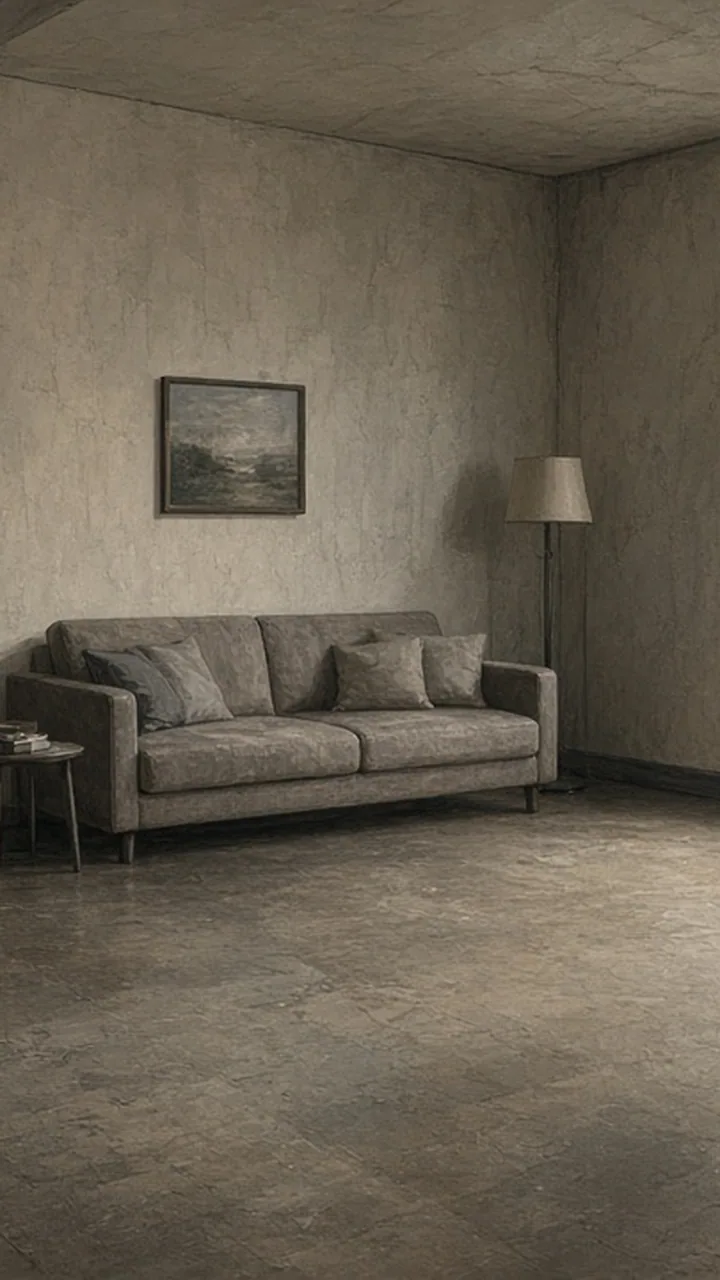
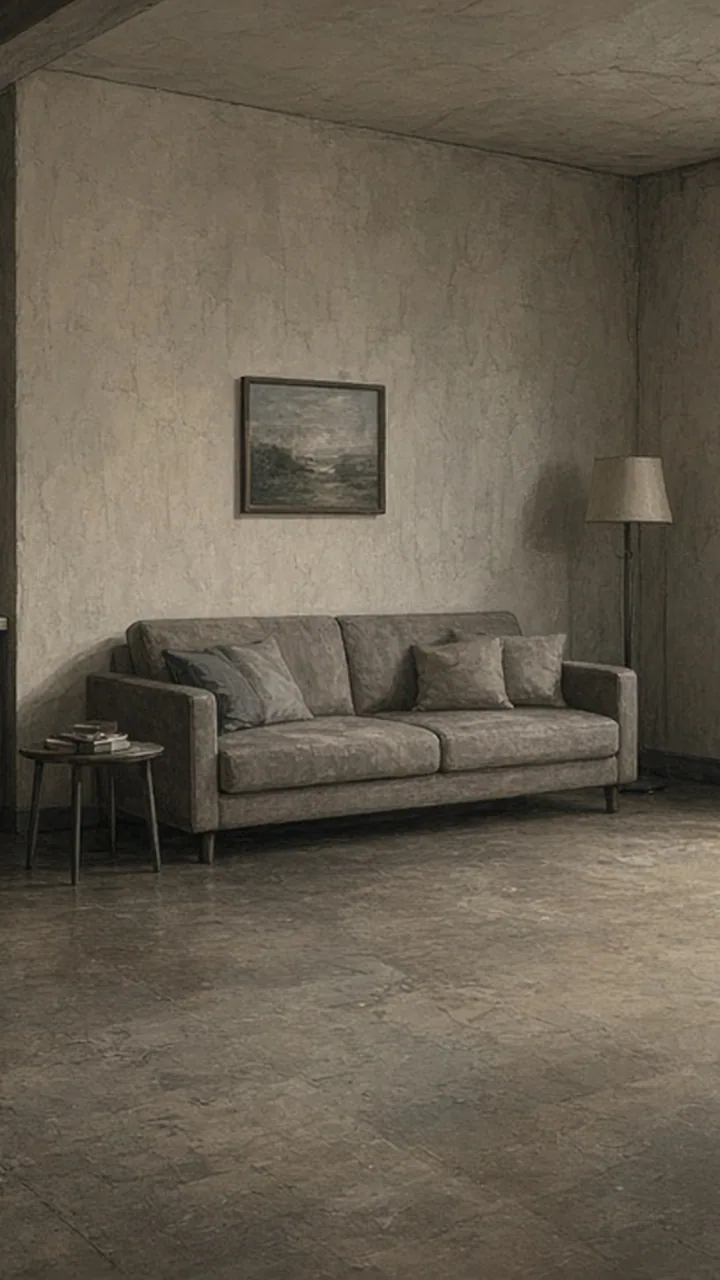
Ken.AI v2: hospital lying sprite on the mattress (centred, bed-length), baby 1.0x / toddler 1.15x boost, recentre teen/apartment/hospital crops

diff --git a/games/kenai/grokbot/game.js b/games/kenai/grokbot/game.js
@@ -228,10 +228,15 @@ function badgeOv(id){const o=D.ILLS[id].ov;if(!BADGES.includes(o))return '';if(S
    baby/toddler get an extra 1.3x so they stay readable. Rooms are pulled-back portraits shown cover, bottom-aligned.
    NEUTRAL_H = natural px height of <stage>_neutral.webp (manifest). */
 const FOOT_AT=.93, ADULT_H=.52;
-const STAGE_RATIO={baby:.455*1.3,toddler:.606*1.3,child:.758,teen:.909,youngadult:.985,adult:1,middle:.985,senior:.955,elder:.909};
+const STAGE_RATIO={baby:.455*1.0,toddler:.606*1.15,child:.758,teen:.909,youngadult:.985,adult:1,middle:.985,senior:.955,elder:.909};
 const NEUTRAL_H={baby:200,toddler:282,child:374,teen:487,youngadult:528,adult:528,middle:523,senior:502,elder:477};
-const BED_Y={hospital:.52};
-function spriteK(){const id=S?stage().id:'adult';return ($('#stage').clientHeight||400)*ADULT_H*(STAGE_RATIO[id]||1)/(NEUTRAL_H[id]||SPRITE_REF);}
+/* hospital bed in the portrait bg (fractions of the image): mattress top surface y, bed centre x, sprite length.
+   The lying sprite sits on the mattress, centred on the bed and scaled to its length. */
+const BED={hospital:{y:.555,cx:.48,len:.66}};
+function bedGeo(){const sv=$('#stage');const W=sv.clientWidth,H=sv.clientHeight;const room=$('#bg').dataset.room;const b=BED[room];
+  if(!b||!$('#charWrap').classList.contains('inbed'))return null;const im=$('#bg img.bgimg');const iw=(im&&im.naturalWidth)||720,ih=(im&&im.naturalHeight)||1280;
+  const s=Math.max(W/iw,H/ih),iws=iw*s,ihs=ih*s;return {bottom:(1-b.y)*ihs-.015*ihs,cx:(W-iws)/2+b.cx*iws,len:b.len*iws};}
+function spriteK(){const id=S?stage().id:'adult';const bg=bedGeo(),ci=$('#char img');if(bg&&ci&&ci.naturalWidth)return bg.len/ci.naturalWidth;return ($('#stage').clientHeight||400)*ADULT_H*(STAGE_RATIO[id]||1)/(NEUTRAL_H[id]||SPRITE_REF);}
 function placeScene(){const sv=$('#stage');const W=sv.clientWidth,H=sv.clientHeight;if(!W||!H||!S)return;
   const room=$('#bg').dataset.room||stage().room;const w=$('#charWrap');const inbed=w.classList.contains('inbed');
   const c=$('#bg img.contain');
@@ -239,14 +244,14 @@ function placeScene(){const sv=$('#stage');const W=sv.clientWidth,H=sv.clientHei
     const iw=c.naturalWidth||1280,ih=c.naturalHeight||720;let ihs=H*.75,iws=ihs*iw/ih;if(iws<W){iws=W;ihs=W*ih/iw;}
     c.style.cssText=`width:${iws}px;height:${ihs}px;left:${clamp(W/2-.38*iws,W-iws,0)}px;top:${H-ihs}px`;}
   let foot=(1-FOOT_AT)*H;
-  if(inbed&&BED_Y[room]){const im=$('#bg img.bgimg');const iw=(im&&im.naturalWidth)||720,ih=(im&&im.naturalHeight)||1280;const ihs=ih*Math.max(W/iw,H/ih);foot=(1-BED_Y[room])*ihs;}
+  const bg=bedGeo();w.style.left=bg?bg.cx+'px':'';if(bg)foot=bg.bottom;
   else if(inbed)foot=.30*H;
   sv.style.setProperty('--foot',foot+'px');w.style.bottom=foot+'px';}
 addEventListener('resize',()=>placeScene());
 function trayEnd(){const t=$('#tray');t.classList.toggle('end',t.scrollLeft+t.clientWidth>=t.scrollWidth-4);}
 $('#tray').addEventListener('scroll',trayEnd,{passive:true});
 function fitSprite(){const k=spriteK();const w=$('#charWrap');w.style.setProperty('--k',k);
-  const im=$('#char img');if(im){const set=()=>{w.style.setProperty('--sh',(im.naturalHeight*k)+'px');};if(im.complete&&im.naturalHeight)set();else im.onload=set;w.style.setProperty('--mask',`url("${im.getAttribute('src')}")`);}
+  const im=$('#char img');if(im){const set=()=>{w.style.setProperty('--sh',(im.naturalHeight*spriteK())+'px');};if(im.complete&&im.naturalHeight)set();else im.onload=set;w.style.setProperty('--mask',`url("${im.getAttribute('src')}")`);}
   else w.style.setProperty('--sh',($('#stage').clientHeight*.5)+'px');
   const pr=$('#props img');if(pr){const s=()=>$('#props').style.setProperty('--ph',(pr.naturalHeight*k*.35)+'px');if(pr.complete&&pr.naturalHeight)s();else pr.onload=s;}}
 addEventListener('resize',()=>{if(S){fitSprite();lastMoodKey='';}});

diff --git a/games/kenai/grokbot/style.css b/games/kenai/grokbot/style.css
@@ -203,3 +203,4 @@ body.dying2 #vignette{box-shadow:inset 0 0 160px 90px #000}
 #bg img.bgimg,#bgOld img.bgimg{object-position:50% 100%;filter:blur(1px) brightness(.95)}
 #bg img.bgblur{filter:blur(16px) brightness(.8);transform:scale(1.1)}
 #bg img.bgimg.contain{inset:auto;object-fit:fill}
+#charWrap.inbed #char img.sprite{transform:scaleX(-1)} /* head on the pillow (pillow is at the right of the hospital bed) */
